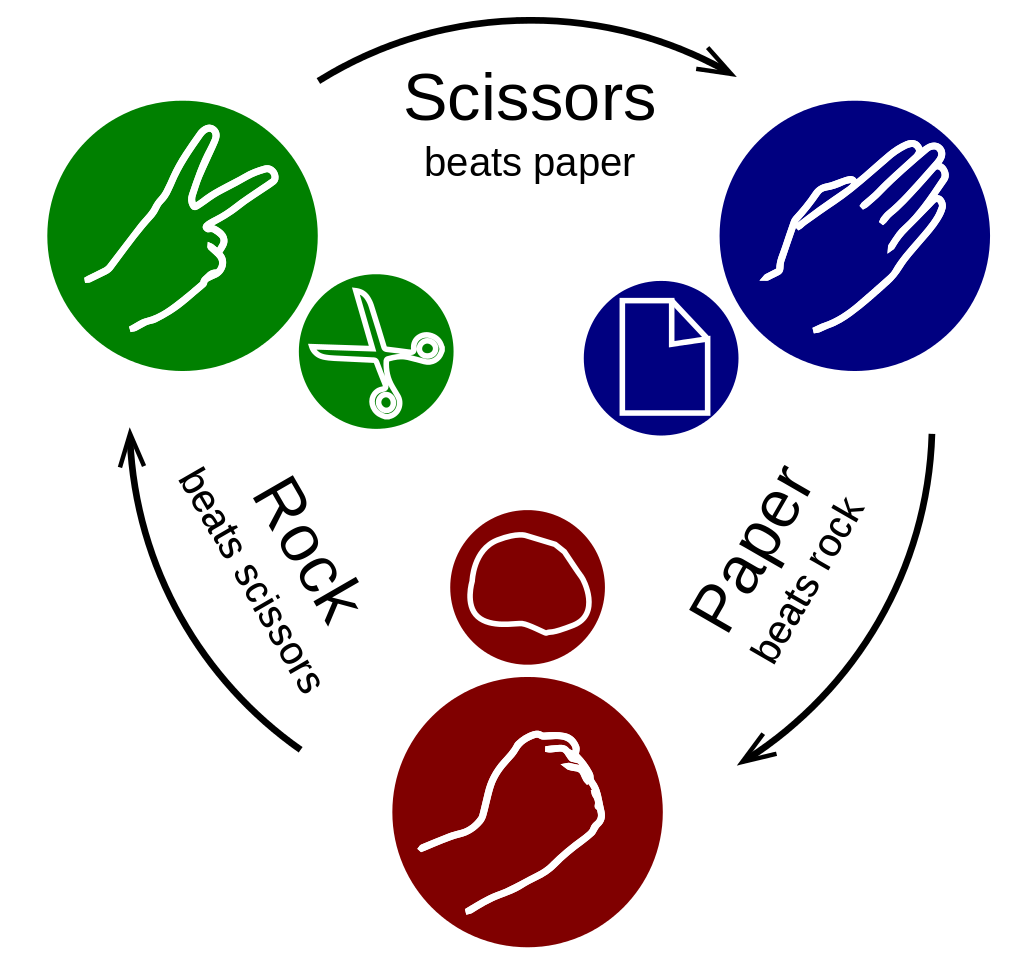
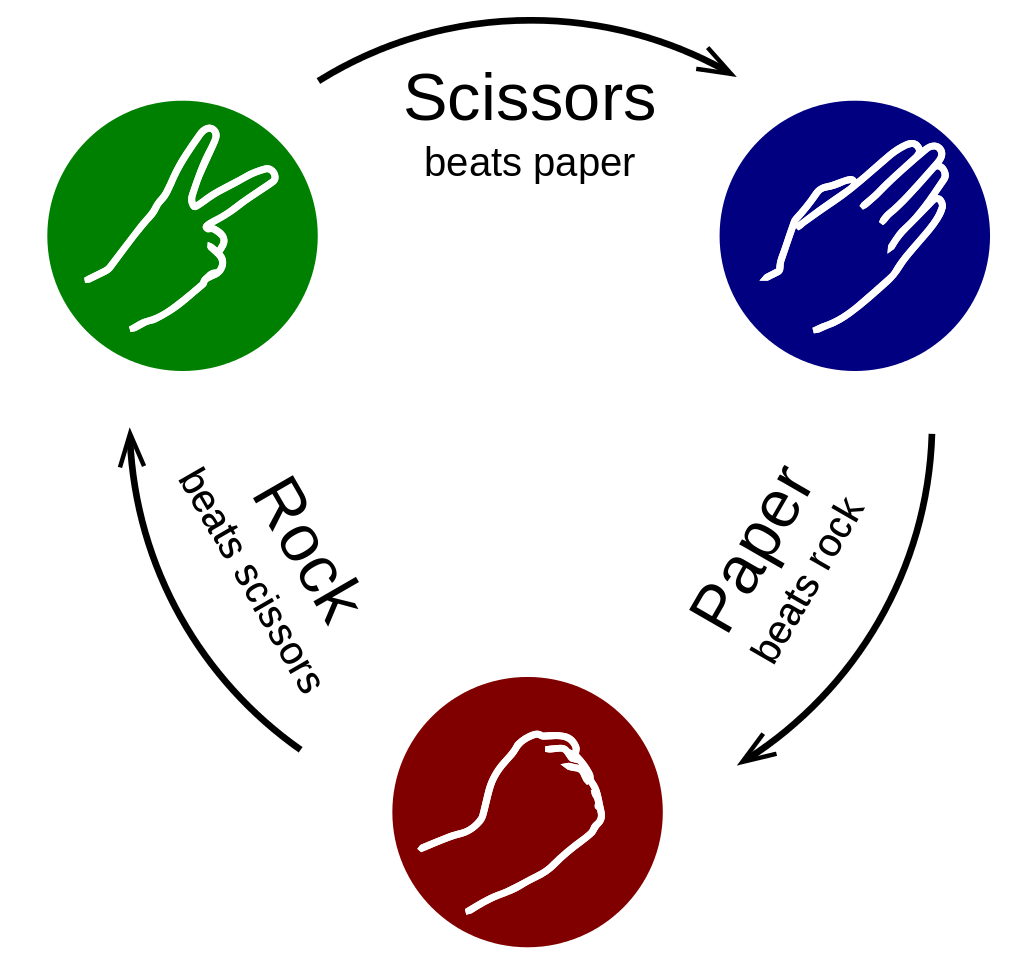
UI almost complete

Changed region(s): [[0.5625, 0.2758, 0.7188, 0.4597], [0.2812, 0.2758, 0.4688, 0.4597], [0.4375, 0.5209, 0.5938, 0.7048]]

diff --git a/index.css b/index.css
@@ -1,8 +1,26 @@
 :root {
-  --icon-width: 100px;
-  --icon-height: auto;
-  --text-color: rgb(109, 95, 23);
+  --icon-width: 200px;
+  --text-color: rgb(140, 121, 29);
   --rules-color: rgb(25, 104, 60);
+  --fight-red: #611212;
+}
+
+a,
+a:hover,
+a:active,
+a:visited,
+a:focus {
+  text-decoration: none;
+  min-height: 220px;
+}
+
+@keyframes textgrowth {
+  0% {
+    font-size: 7em;
+  }
+  100% {
+    font-size: 7.4em;
+  }
 }
 
 body {
@@ -13,6 +31,7 @@ body {
 header {
   display: flex;
   justify-content: center;
+  min-height: 205px;
 }
 
 #header-division {
@@ -33,7 +52,7 @@ h1 {
 .rules-container {
   display: flex;
   justify-content: center;
-  visibility: hidden;
+  /* visibility: hidden; */
 }
 
 .rules-for-game {
@@ -41,7 +60,7 @@ h1 {
   flex-direction: column;
   display: flex;
   align-items: center;
-  margin-top: 5em;
+  margin-top: 2em;
   padding: 20px;
   border: 2em solid var(--rules-color);
   width: 900px;
@@ -49,8 +68,8 @@ h1 {
 }
 
 #rules-img {
-  height: 600px;
-  opacity: 0.7;
+  height: 500px;
+  opacity: 0.6;
 }
 
 .rules-button {
@@ -65,17 +84,77 @@ h1 {
   background-color: var(--rules-color);
 }
 
-/* #rock {
-  width: var(--icon-width);
-  height: var(var(--icon-height));
+main {
+  display: flex;
+  flex-direction: column;
+  visibility: hidden;
 }
 
-#paper {
-  width: var(--icon-width);
-  height: var(var(--icon-height));
+.score-container {
+  margin-top: 3em;
+  display: flex;
+  justify-content: center;
 }
 
-#sissors {
+.scores {
+  display: flex;
+  justify-content: space-evenly;
+  font-size: 3em;
+  font-family: "Permanent Marker", cursive;
+  color: var(--fight-red);
+  width: calc(100vw - 20vw);
+}
+
+.individual-scores {
+  display: flex;
+  justify-content: conter;
+}
+
+#player-score {
+  margin-left: 20px;
+}
+
+#computer-score {
+  margin-left: 20px;
+}
+
+.round-results {
+  min-height: 300px;
+}
+
+.weapon-icons {
+  display: flex;
+  justify-content: center;
+}
+
+ul {
+  display: flex;
+  justify-content: space-evenly;
+  align-items: center;
+  width: 900px;
+  list-style-type: none;
+}
+
+.all-weapons {
+  padding: 10px;
+  margin: 0 30px 0 30px;
+  border: 1em solid;
   width: var(--icon-width);
-  height: var(var(--icon-height));
-} */
+  background-color: rgb(123, 44, 42, 0.5);
+  border-radius: 0.5em;
+  cursor: pointer;
+  transition: all 0.5s ease;
+}
+
+.all-weapons:hover {
+  transform: scale(1.1);
+  box-shadow: 0 0 1em 0.3em var(--fight-red);
+}
+
+#gun {
+  border: 1em solid var(--fight-red);
+  background-color: yellow;
+}
+#gun:hover {
+  box-shadow: 0 0 1.2em 0.3em yellow;
+}

diff --git a/index.html b/index.html
@@ -7,10 +7,20 @@
     <link rel="icon" sizes="16x16" href="src/favicon.png" />
     <link rel="stylesheet" href="index.css" />
     <link rel="reset-css" href="reset.css" />
+    <link rel="preconnect" href="https://fonts.gstatic.com" />
+    <link
+      href="https://fonts.googleapis.com/css2?family=Permanent+Marker&display=swap"
+      rel="stylesheet"
+    />
   </head>
   <body>
     <header>
-      <h1>じゃん拳</h1>
+      <a
+        target="_blank"
+        href="https://jet.fandom.com/wiki/Janken#:~:text=Janken%20(%E3%81%98%E3%82%83%E3%82%93%E6%8B%B3%2C%20janken%3F,and%20importance%20in%20daily%20life."
+      >
+        <h1>じゃん拳</h1>
+      </a>
     </header>
     <hr id="header-division" />
     <!-- rules for game -->
@@ -24,8 +34,30 @@
         <button type="button" class="rules-button">click to play</button>
       </div>
     </div>
-
-    <main></main>
+    <!-- game controls -->
+    <main>
+      <div class="score-container">
+        <div class="scores">
+          <div class="individual-scores">
+            <div>You :</div>
+            <div id="player-score">0</div>
+          </div>
+          <div class="individual-scores">
+            <div>Computer :</div>
+            <div id="computer-score">0</div>
+          </div>
+        </div>
+      </div>
+      <div class="round-results"></div>
+      <div class="weapon-icons">
+        <ul>
+          <li><img class='all-weapons' id='rock' src='src/rock.png'</li>
+          <li><img class='all-weapons' id='paper' src='src/paper.png'</li>
+          <li><img class='all-weapons' id='sissors' src='src/sissors.png'</li>
+          <li><img class='all-weapons' id='gun' src='src/gun.png'</li>
+        </ul>
+      </div>
+    </main>
     <script src="index.js"></script>
   </body>
 </html>

diff --git a/index.js b/index.js
@@ -4,10 +4,6 @@ function computerPlay() {
 }
 
 function playRound(player, computer) {
-  let input = player.toLowerCase();
-  // if (input !== 'rock' || input !== 'paper' || input !== 'sissors) {
-  //   alert('refresh and use a correct input')
-  // }
   if (player === computer) return "tie";
   return input === "rock" && computer === "sissors"
     ? "user wins"
@@ -42,10 +38,31 @@ function game() {
     : alert("You lose ;(");
 }
 
-// game();
+const playButton = document.querySelector(".rules-button");
+function ruleHider(e) {
+  const heading = document.querySelector("h1");
+  const body = document.querySelector("body");
+  const rules = document.querySelector(".rules-container");
+  const anchor = document.querySelector("a");
+  const division = document.querySelector("#header-division");
+  const main = document.querySelector("main");
 
-let playButton = document.querySelector(".rules-button");
-function hideRules(e) {
-  document.querySelector(".rules-container").style.visibility = "hidden";
+  heading.style.color = "#611212";
+  heading.innerText = "FIGHT!";
+  heading.style.animation = "textgrowth .5s infinite alternate";
+  heading.style.fontFamily = "Permanent Marker, cursive";
+  body.style.backgroundColor = "rgba(103, 29, 29, 0.25)";
+  rules.style.visibility = "hidden";
+  anchor.removeAttribute("href");
+  division.style.backgroundColor = "#611212";
+  main.style.visibility = "visible";
 }
-playButton.addEventListener("click", hideRules);
+playButton.addEventListener("click", ruleHider);
+
+const rock = document.querySelector("#rock");
+rock.addEventListener("click");
+const paper = document.querySelector("#paper");
+
+const sissors = document.querySelector("#sissors");
+
+const gun = document.querySelector("#gun");
